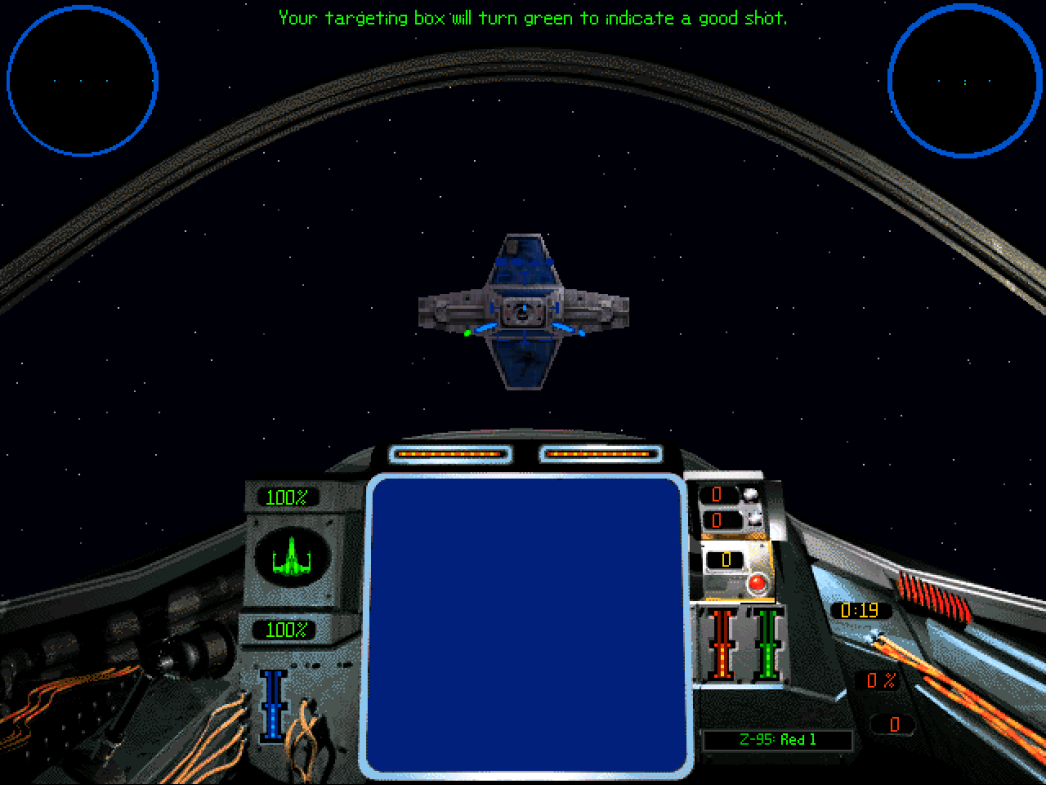
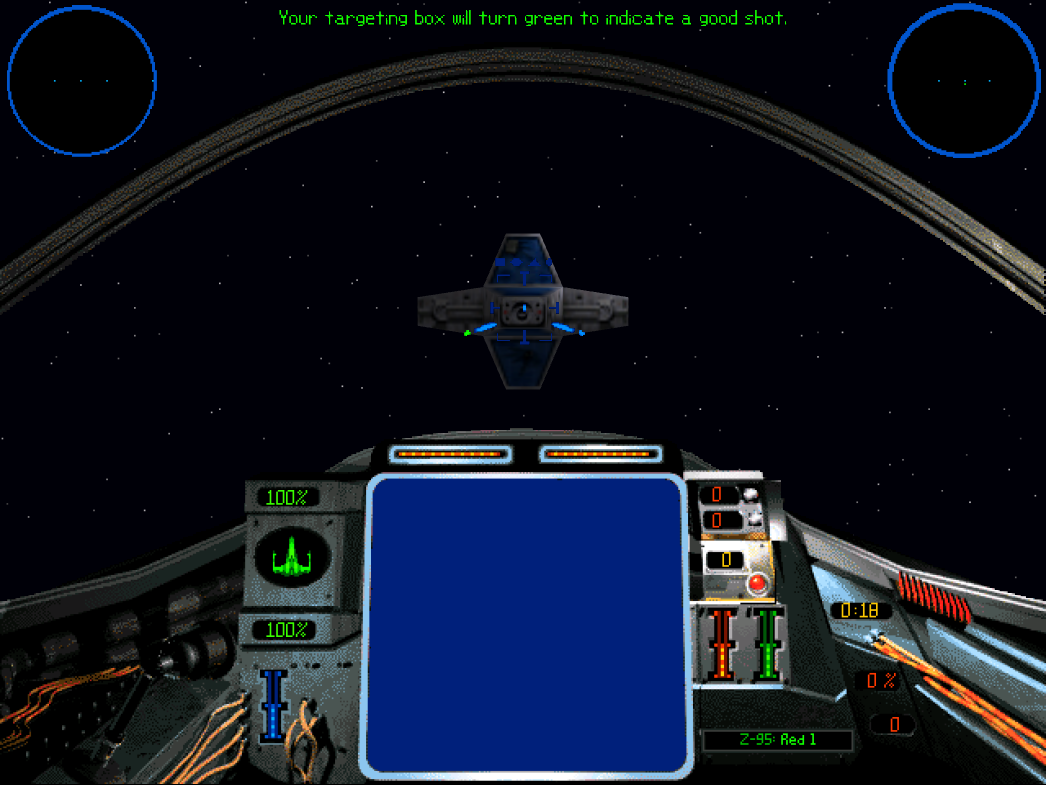
High-resolution 3D: XvT's 3D hardware mode on Direct3D 11
Config.cfg's use_3d_hardware1/2 and bilinear1/2 are set at start, with a
video.cfg naming the card as the launcher would; a frame the game does not
clear starts cleared with depth at the far plane (its test is LESS and it
never clears through the viewport).

Changed region(s): [[0.3977, 0.2752, 0.6119, 0.5197], [0.979, 0.1223, 1.0, 0.1529], [0.979, 0.0611, 1.0, 0.0917]]

diff --git a/src/runtime/settings.c b/src/runtime/settings.c
@@ -101,22 +101,63 @@ void settings_menu(HWND w, int x, int y) {
 /* The game keeps its display mode in prefs.cfg (byte 0x1B: 0 320x200, 1 640x480x8,
  * 2 640x480x16, 3 3D hardware) but never writes a changed one back: the mode
  * is set there before the game reads it. */
-void settings_apply_prefs(void) {
-    /* TIE: foption.cfg is 0x3A bytes of options, then the display mode as a
-     * dword (0 320x200, 1 640x480x8, 2 640x480x16, 3 Direct3D). */
-    HANDLE f = CreateFileA("foption.cfg", GENERIC_READ | GENERIC_WRITE, 0, NULL, OPEN_EXISTING, 0, NULL);
-    if (f == INVALID_HANDLE_VALUE) return;
-    unsigned char b[0x60];
-    DWORD n = 0;
-    if (ReadFile(f, b, sizeof b, &n, NULL) && n >= 0x3E) {
-        unsigned char want = g_hw3d ? 3 : 2;
-        if (b[0x3A] != want) {
-            b[0x3A] = want;
-            SetFilePointer(f, 0, NULL, FILE_BEGIN);
-            WriteFile(f, b, n, &n, NULL);
+/* One "key value" line of XvT's Config.cfg (text, one setting a line). */
+static void cfg_set(char* t, size_t cap, const char* key, const char* val) {
+    size_t kl = strlen(key);
+    for (char* l = t; *l; ) {
+        char* e = strchr(l, '\n');
+        size_t len = e ? (size_t)(e - l + 1) : strlen(l);
+        if (!strncmp(l, key, kl) && l[kl] == ' ') {
+            char line[128];
+            _snprintf(line, sizeof line, "%s %s\r\n", key, val);
+            size_t nl2 = strlen(line), rest = strlen(l + len);
+            if (strlen(t) - len + nl2 + 1 > cap) return;
+            memmove(l + nl2, l + len, rest + 1);
+            memcpy(l, line, nl2);
+            return;
         }
+        l += len;
+    }
+}
+
+/* XvT: the 3D hardware mode is "use_3d_hardware1" (single player) and
+ * "use_3d_hardware2" (multiplayer) in Config.cfg, and the card in video.cfg (a
+ * DirectDraw device GUID the launcher writes; softdd answers any). Balance of
+ * Power keeps the same in BalanceOfPower\config2.cfg and Video.cfg. */
+static void apply_cfg(const char* path) {
+    HANDLE f = CreateFileA(path, GENERIC_READ | GENERIC_WRITE, 0, NULL, OPEN_EXISTING, 0, NULL);
+    if (f == INVALID_HANDLE_VALUE) return;
+    static char t[16384];
+    DWORD n = 0;
+    if (ReadFile(f, t, sizeof t - 256, &n, NULL)) {
+        t[n] = 0;
+        const char* v = g_hw3d ? "1" : "0";
+        cfg_set(t, sizeof t, "use_3d_hardware1", v);
+        cfg_set(t, sizeof t, "use_3d_hardware2", v);
+        cfg_set(t, sizeof t, "bilinear1", v);
+        cfg_set(t, sizeof t, "bilinear2", v);
+        SetFilePointer(f, 0, NULL, FILE_BEGIN);
+        WriteFile(f, t, (DWORD)strlen(t), &n, NULL);
+        SetEndOfFile(f);
     }
     CloseHandle(f);
+}
+
+static void write_video_cfg(const char* path) {
+    static const GUID dev = { 0x3dd1c0de, 0x0000, 0x4000, { 0x80, 0, 0, 0, 0, 0, 0, 0x01 } };
+    if (GetFileAttributesA(path) != INVALID_FILE_ATTRIBUTES) return;
+    HANDLE f = CreateFileA(path, GENERIC_WRITE, 0, NULL, CREATE_NEW, 0, NULL);
+    if (f == INVALID_HANDLE_VALUE) return;
+    DWORD n;
+    WriteFile(f, &dev, sizeof dev, &n, NULL);
+    CloseHandle(f);
+}
+
+void settings_apply_prefs(void) {
+    apply_cfg("Config.cfg");
+    apply_cfg("BalanceOfPower\\config2.cfg");
+    write_video_cfg("video.cfg");
+    write_video_cfg("BalanceOfPower\\Video.cfg");
 }
 
 int settings_key(HWND w, UINT vk, int alt) {

diff --git a/src/runtime/d3d.c b/src/runtime/d3d.c
@@ -88,8 +88,11 @@ static HRESULT WINAPI vp_SetBgDepth(void* t, LPDIRECTDRAWSURFACE s) { (void)t; (
 static HRESULT WINAPI vp_GetBgDepth(void* t, LPDIRECTDRAWSURFACE* s, LPBOOL v) { (void)t; *s = NULL; *v = FALSE; return DD_OK; }
 /* Clear: the 3D target (gpu), and the rectangles in the render target become
  * KEY16, so only what the game draws over the 3D afterwards stays opaque. */
+static int g_cleared;   /* this frame: 1 target, 2 z-buffer */
 static HRESULT WINAPI vp_Clear(void* t, DWORD n, LPD3DRECT r, DWORD flags) {
     VP* v = (VP*)t;
+    if (flags & D3DCLEAR_TARGET) g_cleared |= 1;
+    if (flags & D3DCLEAR_ZBUFFER) g_cleared |= 2;
     Surf* s = v->dev ? v->dev->target : NULL;
     for (DWORD i = 0; i < n; i++) {
         gpu_clear(r[i].x1, r[i].y1, r[i].x2, r[i].y2, flags & D3DCLEAR_TARGET, v->bg, flags & D3DCLEAR_ZBUFFER, v->z);
@@ -334,10 +337,15 @@ static HRESULT WINAPI dev_GetStats(void* t, LPD3DSTATS s) { (void)t; DWORD n = s
  * the render target holds the first: it goes under the 3D (gpu_background),
  * and the target becomes KEY16, so only what is drawn after the 3D covers it. */
 static int g_frame_open;
-void d3d_frame_done(void) { g_frame_open = 0; }
+void d3d_frame_done(void) { g_frame_open = 0; g_cleared = 0; }
 static void open_frame(Surf* s) {
     if (g_frame_open || !s || s->bpp != 16) return;
     g_frame_open = 1;
+    /* XvT never clears through the viewport (its depth test is LESS, and a
+     * card of the day began each frame cleared): what the game did not clear
+     * starts the frame clear, the depth at the far plane. */
+    if ((g_cleared & 3) != 3)
+        gpu_clear(0, 0, s->w, s->h, !(g_cleared & 1), 0, !(g_cleared & 2), 1.0f);
     gpu_background(s->bits, s->w, s->h, s->pitch, s->bpp, NULL);
     for (int y = 0; y < s->h; y++) {
         uint16_t* p = (uint16_t*)(s->bits + (size_t)y * s->pitch);

diff --git a/README.md b/README.md
@@ -15,7 +15,8 @@ You supply your own copy of the game. Nothing from it is in this repo.
 **Alpha.** Flies. Boots, plays the intro movie and the credits, runs the
 front end (pilot roster, Fly Solo, Training Exercises, briefing, craft
 selection) and flies Training mission 1, Gunnery Training, in the Z-95
-Headhunter's cockpit. The 3D is the game's software renderer so far.
+Headhunter's cockpit, in the game's 3D hardware mode drawn by Direct3D 11 at
+the window's resolution.
 
 ![In flight](docs/screenshots/flight.png)
 ![Craft selection](docs/screenshots/craft.png)
@@ -45,6 +46,8 @@ Everything in TIE Fighter's table, and:
 |---|---|
 | The CD-music calls go to the Steam edition's `WIN32.dll` | X-Wing and TIE ship the same thing as `MUSIC.dll` |
 | Writes to the front buffer of a flip chain are presented | the movie player and front end draw there, which a real card shows at once |
+| The 3D hardware mode is switched on at start | `use_3d_hardware1`/`2` and `bilinear1`/`2` in `Config.cfg` (Balance of Power: `config2.cfg`), and a `video.cfg` naming the card, which the launcher would write; F10 switches back to software |
+| A frame the game does not clear starts cleared, depth at the far plane | XvT's depth test is LESS and it never clears through the viewport, as a card of the day began each frame cleared |
 | `SuspendThread` keeps the machine lock | the movie player suspends its decoder thread around every frame; called unlocked, it could catch that thread holding the lock, and the intro hung on its first frame |
 
 ## License

diff --git a/ROADMAP.md b/ROADMAP.md
@@ -4,7 +4,7 @@
 - [x] Front end: pilot roster, Fly Solo, training briefing, craft selection
 - [x] Flight: Training mission 1 (Gunnery Training)
 - [ ] Melee, Tournament, Combat
-- [ ] the 3D hardware mode at the window's resolution
+- [x] The 3D hardware mode at the window's resolution
 - [ ] Balance of Power (its own campaign data in BalanceOfPower/)
 - [ ] Multiplayer (DirectPlay)
 - [ ] Everything on X-Wing's and TIE Fighter's remaster roadmaps
